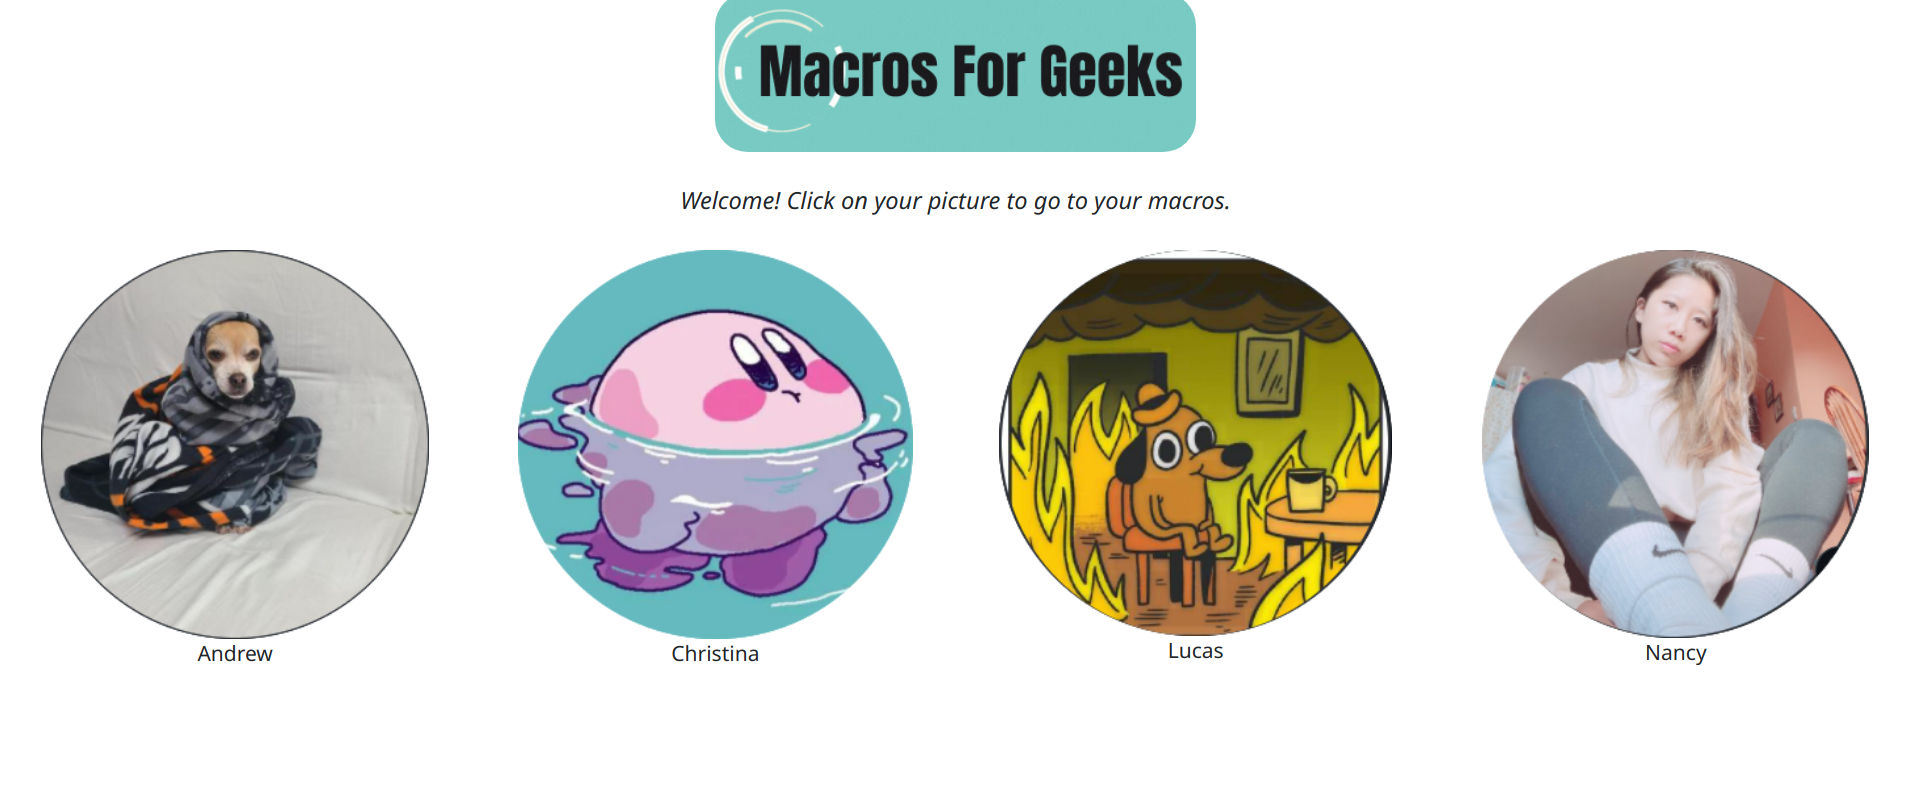
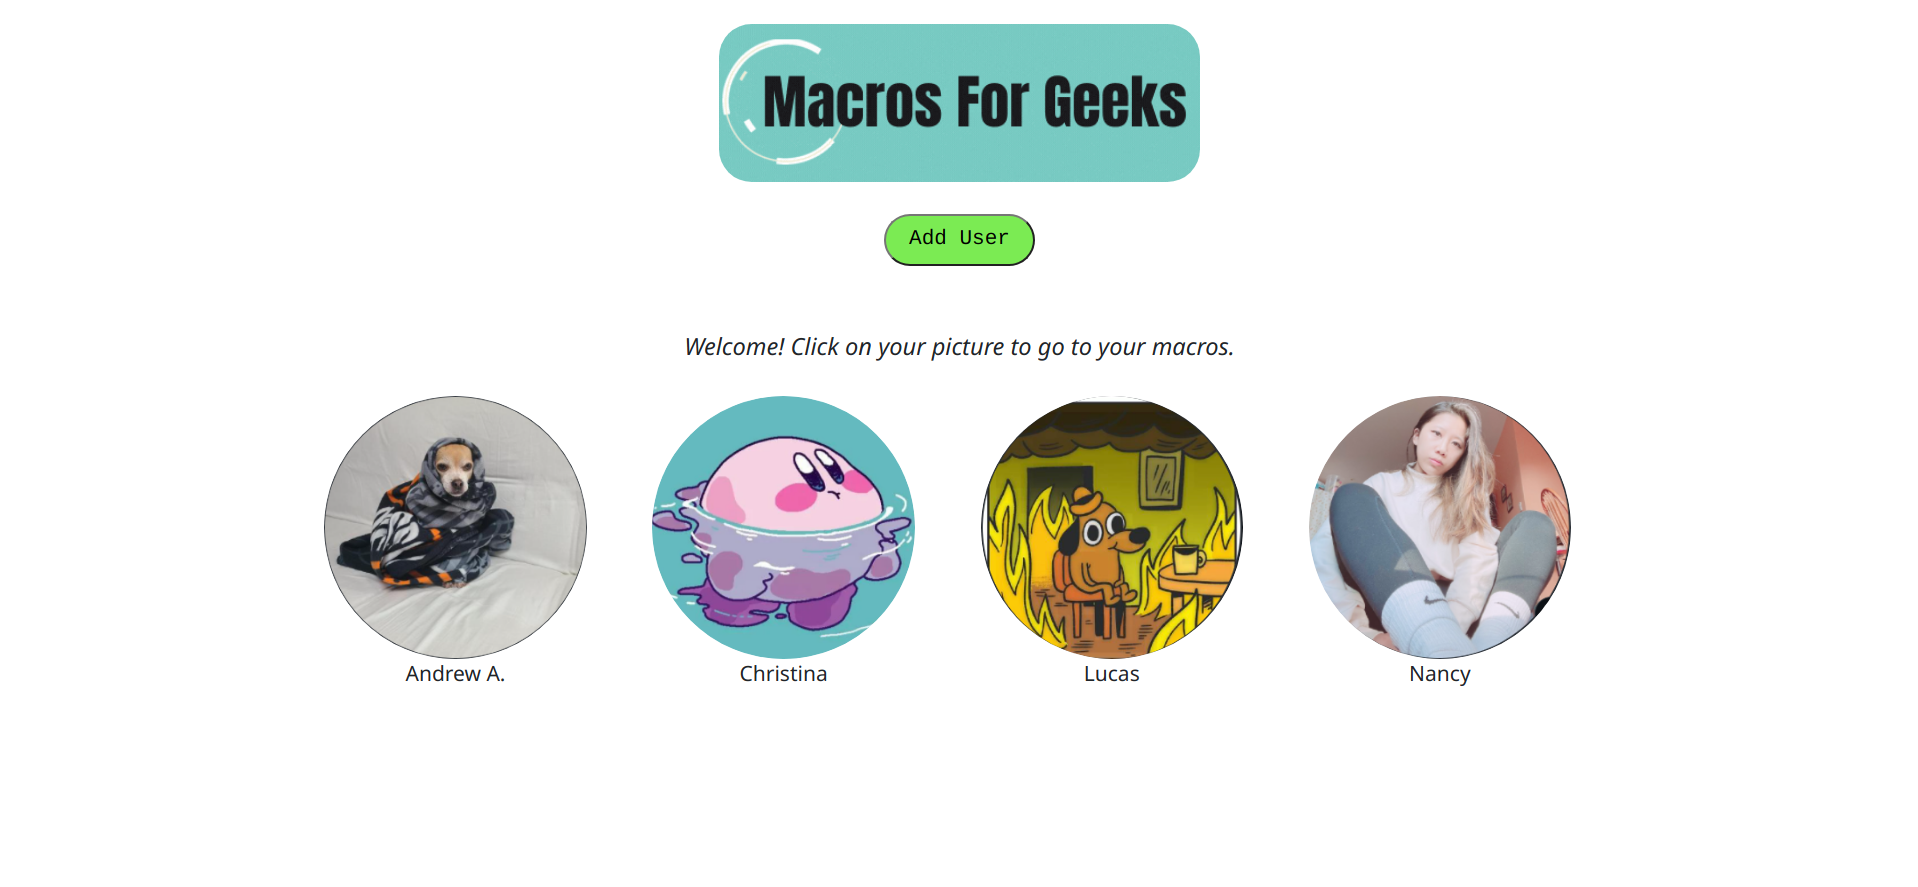
progress chart, UI, and routing
fixed progress chart with setTimeOut to load data automatically after loading from api, fixed ui for register/profile form to have better types along with routing to the login page after deleting user

diff --git a/mfg_website/src/app/progress/progress.component.ts b/mfg_website/src/app/progress/progress.component.ts
@@ -18,52 +18,51 @@ export class ProgressComponent implements OnInit {
   private fats : number[] = [0,0,0,0,0,0,0]
   private carbs: number[] = [0,0,0,0,0,0,0]
   loaded = false;
-  barchart:any;
   carbGoal = [0,0,0,0,0,0,0]
-  protienGoal = [0,0,0,0,0,0,0]
+  proteinGoal = [0,0,0,0,0,0,0]
   fatGoal = [0,0,0,0,0,0,0]
-
-  //@ViewChild(BaseChartDirective) chart: BaseChartDirective;
-
-  public barChartOptions: ChartOptions = {
-    responsive: true,
-    spanGaps:true
-  };
-
-public barChartLabels: any = this.pastWeek;
-public barChartType: ChartType = 'bar';
-
+  // Chart info
+  @ViewChild(BaseChartDirective) chart!: BaseChartDirective;
+  public barChartLabels: any = this.pastWeek;
+  public barChartType: ChartType = 'bar';
   public barChartLegend = true;
   public barChartPlugins = [];
-
   public barChartData: any[] = [
-    { data: this.proteins, label: 'Proteins(g)' , backgroundColor:"#80af5e"},
-    { data: this.fats, label: 'Fats(g)',backgroundColor:"#a6a559"},
-    { data: this.carbs, label: 'Carbohydrates(g)',backgroundColor:"#75DBCD"},
-    { "data": this.protienGoal , "label": "Protein goal(g)", "type": "line", 'fill':'false',backgroundColor:["#80af5e"], borderColor: ['#80af5e'] },
-    { "data": this.carbGoal, "label": "Fat goal(g)", "type": "line", 'fill':'false',backgroundColor:['#a6a559'],borderColor: ['#a6a559'] },
-    { "data": this.fatGoal, "label": "Carb goal(g)", "type": "line", 'fill':'false', backgroundColor:['#75DBCD'],borderColor: ['#75DBCD'] },
+    { data: this.proteins, label: 'Proteins(g)'},
+    { data: this.fats, label: 'Fats(g)'},
+    { data: this.carbs, label: 'Carbohydrates(g)'},
+    { "data": this.proteinGoal , "label": "Protein goal(g)", "type": "line", 'radius':'0', 'fill':'false',backgroundColor:["#80af5e"], borderColor: ['#80af5e'] },
+    { "data": this.carbGoal, "label": "Fat goal(g)", "type": "line", 'radius':'0', 'fill':'false',backgroundColor:['#50978d'],borderColor: ['#50978d'] },
+    { "data": this.fatGoal, "label": "Carb goal(g)", "type": "line", 'radius':'0', 'fill':'false', backgroundColor:['#a6a559'],borderColor: ['#a6a559'] },
   ];
+  chartColors: Colors[] = [
+    {backgroundColor:["#80af5e","#80af5e","#80af5e","#80af5e","#80af5e","#80af5e","#80af5e"]},
+    {backgroundColor:["#50978d","#50978d","#50978d","#50978d","#50978d","#50978d","#50978d"]},
+    {backgroundColor:["#a6a559","#a6a559","#a6a559","#a6a559","#a6a559","#a6a559","#a6a559"]}
 
+  ];
+/*  public barChartOptions: ChartOptions = {
+    responsive: true,
+    spanGaps:true
+  };*/
 
-/*  chartColors: Colors[] = [
-   /!* {backgroundColor:["#80af5e","#80af5e","#80af5e","#80af5e","#80af5e","#80af5e","#80af5e"]},*!/
-/!*    {backgroundColor:["#75DBCD","#75DBCD","#75DBCD","#75DBCD","#75DBCD","#75DBCD","#75DBCD"]},
-    {backgroundColor:["#a6a559","#a6a559","#a6a559","#a6a559","#a6a559","#a6a559","#a6a559"]}*!/
-  ];*/
-
-  constructor(private http: HttpClient,private datePipe: DatePipe,private sharedService: SharedService) { }
+  constructor(private http: HttpClient,private datePipe: DatePipe,private sharedService: SharedService) {
+  }
 
   ngOnInit(){
-    this.getDates()
     this.getMacros()
+    this.getDates()
     this.getGoals()
+    // used to load chart data from the api so that the chart will refresh with the new data
+    setTimeout(() => {
+      this.chart.chart.update() // This re-renders the canvas element.
+    }, 350);
   }
 
   getGoals(){
     this.sharedService.getUser(this.userId).subscribe(user => {
       for(let i = 0; i < 7; i++) {
-        this.protienGoal[i] = user.proteinGoal
+        this.proteinGoal[i] = user.proteinGoal
       }
       for(let i = 0; i < 7; i++) {
         this.carbGoal[i] = user.carbohydrateGoal
@@ -106,7 +105,8 @@ public barChartType: ChartType = 'bar';
     threedays.setDate(threedays.getDate() - 3);
     var twodays=new Date(myCurrentDate);
     twodays.setDate(twodays.getDate() - 2);
-    //Put Macros for each date over the last 7 days into their own array.
+    /* Put Macros for each date over the last 7 days into their own array with for loops.
+       Can make much simpler once API can get past week of entries. */
     this.sharedService.getDiaryByDate(this.userId,sevdays).subscribe(entries => {
       for (var i = 0; i < entries.length ;i++){
         this.proteins[0] += entries[i].protein}})

diff --git a/mfg_website/src/app/profile/profile.component.html b/mfg_website/src/app/profile/profile.component.html
@@ -1,29 +1,29 @@
 <div class="container" *ngIf="userData">
-  <h3 style="text-decoration: underline; text-align:center">Update Profile</h3><br>
+  <h3 style="text-decoration: underline; text-align:center">Update Profile</h3>
   <label>Enter Name: </label>
   <input class="form-control" type="text" [(ngModel)]="userData.name" style="width: 240px;">
-  <label>Enter email:</label>
+  <label>Enter Email:</label>
   <input class="form-control" type="email" [(ngModel)]="userData.email" style="width: 240px;">
-  <label>Enter picture path: </label>
+  <label>Enter Picture Path: </label>
   <input class="form-control" type="text"  [(ngModel)]="userData.picture" style="width: 240px;">
-  <label>Enter Height (inches):</label>
-  <div class="height">
-    <input class="form-control" type="number" [placeholder]="'feet'" [(ngModel)]="userData.feet" style="width: 100px;float:left;">
-    <input class="form-control" type="number" [placeholder]="'inches'" [(ngModel)]="userData.inches" style="width: 100px;float:left">
+  <label>Enter Height (feet, inches):</label>
+  <div class="heightInput">
+    <input class="form-control" type="number" min="0" max="8" [placeholder]="'feet'" [(ngModel)]="userData.feet" style="width: 100px;float:left;">
+    <input class="form-control" type="number" min="0" max="11" [placeholder]="'inches'" [(ngModel)]="userData.inches" style="width: 100px;float:left">
   </div>
-  <label>Enter weight:</label>
-  <input class="form-control" type="number" [(ngModel)]="userData.weight" style="width: 100px;">
-  <label>Enter age:</label>
-  <input class="form-control" type="number" [(ngModel)]="userData.age" style="width: 100px;">
-  <label>Enter protein goal: </label>
-  <input class="form-control" type="number"  [(ngModel)]="userData.proteinGoal" style="width: 100px;">
-  <label>Enter fat goal: </label>
-  <input class="form-control" type="number" [(ngModel)]="userData.fatGoal" style="width: 100px;">
-  <label>Enter carb goal: </label>
-  <input class="form-control"  (keydown.enter)="updateUser()" type="number" [(ngModel)]="userData.carbohydrateGoal" style="width:100px;"><br>
-    <br/>
+  <label>Enter Weight:</label>
+  <input class="form-control" type="number" min="0" [(ngModel)]="userData.weight" style="width: 100px;">
+  <label>Enter Age:</label>
+  <input class="form-control" type="number" min="0" [(ngModel)]="userData.age" style="width: 100px;">
+  <label>Enter Protein Goal: </label>
+  <input class="form-control" type="number" min="0" [(ngModel)]="userData.proteinGoal" style="width: 100px;">
+  <label>Enter Fat Goal: </label>
+  <input class="form-control" type="number" min="0" [(ngModel)]="userData.fatGoal" style="width: 100px;">
+  <label>Enter Carb Goal: </label>
+  <input class="form-control"  (keydown.enter)="updateUser()" type="number" min="0"z [(ngModel)]="userData.carbohydrateGoal" style="width:100px;"><br>
+
   <div class="buttons">
-    <button  routerLink="/Login" type="submit" (click)="deleteUser()" mdbBtn color="secondary" id='button1'>Delete Profile</button>
-    <button  routerLink="/Home" type="submit" (click)="updateUser()" mdbBtn color="secondary" id='button2'>Update Profile</button>
+    <button type="submit" (click)="deleteUser()" mdbBtn color="secondary" id='button1'>Delete Profile</button>
+    <button  type="submit" (click)="updateUser()" mdbBtn color="secondary" id='button2'>Update Profile</button>
   </div>
   </div>

diff --git a/mfg_website/src/app/register/register.component.html b/mfg_website/src/app/register/register.component.html
@@ -1,6 +1,6 @@
 <br><button TYPE='SUBMIT' class="homeButton" routerLink="/Login">Home</button>
 <div class="container" >
-  <h3 style="text-decoration: underline; text-align:center">Add User</h3><br>
+  <h3 style="text-decoration: underline; text-align:center">Add User</h3>
 
   <label>Enter Name: </label>
   <input class="form-control"  type="text" [placeholder]="'First Last'" [(ngModel)]="user.name" style="width: 240px;">
@@ -10,22 +10,20 @@
   <input class="form-control" type="text" [placeholder]="'https://imgur.com/pic.png'" [(ngModel)]="user.picture" style="width: 240px;">
   <label>Enter Height:</label>
   <div class="height">
-  <input class="form-control" type="number" [placeholder]="'feet'" [(ngModel)]="user.feet" style="width: 100px;float:left;">
-  <input class="form-control" type="number" [placeholder]="'inches'" [(ngModel)]="user.inches" style="width: 100px;float:left">
+  <input class="form-control" type="number" min="0" max="8" [placeholder]="'feet'" [(ngModel)]="user.feet" style="width: 100px;float:left;">
+  <input class="form-control" type="number" min="0" max="11" [placeholder]="'inches'" [(ngModel)]="user.inches" style="width: 100px;float:left">
   </div>
   <label>Enter Weight:</label>
-  <input class="form-control" type="number" [placeholder]="'145'" [(ngModel)]="user.weight" style="width: 100px;">
+  <input class="form-control" type="number" min="0" [placeholder]="'145 lbs'" [(ngModel)]="user.weight" style="width: 100px;">
   <label>Enter Age:</label>
-  <input class="form-control" type="number" [placeholder]="'25'" [(ngModel)]="user.age" style="width: 100px;">
+  <input class="form-control" type="number" min="0" [placeholder]="'25'" [(ngModel)]="user.age" style="width: 100px;">
   <label>Enter Protein goal: </label>
-  <input class="form-control" type="number" [placeholder]="'220g'"  [(ngModel)]="user.proteinGoal" style="width: 100px;">
+  <input class="form-control" type="number" min="0" [placeholder]="'220g'"  [(ngModel)]="user.proteinGoal" style="width: 100px;">
   <label>Enter Fat goal: </label>
-  <input class="form-control" type="number" [placeholder]="'320g'" [(ngModel)]="user.fatGoal" style="width: 100px;">
+  <input class="form-control" type="number" min="0" [placeholder]="'320g'" [(ngModel)]="user.fatGoal" style="width: 100px;">
   <label>Enter Carb goal: </label>
-  <input class="form-control" (keydown.enter)="postUser()" [placeholder]="'50g'" type="number" [(ngModel)]="user.carbohydrateGoal" style="width:100px;"><br>
-
-
-  <div style="text-decoration: underline; text-align:right"> Refresh the homescreen and login to your new account.
-  <button type="submit" (click)="postUser()" mdbBtn color="secondary" >Add User</button> <br><br>
+  <input class="form-control" (keydown.enter)="postUser()" [placeholder]="'50g'" type="number" min="0" [(ngModel)]="user.carbohydrateGoal" style="width:100px;">
+  <div style="text-decoration: underline; text-align:right">
+  <button type="submit" (click)="postUser()" mdbBtn color="secondary" >Add User</button>
   </div>
 </div>

diff --git a/mfg_website/src/app/profile/profile.component.ts b/mfg_website/src/app/profile/profile.component.ts
@@ -2,6 +2,7 @@ import { Component, OnInit } from '@angular/core';
 import {User} from "../user/user";
 import {SharedService} from "../services/shared.service";
 import Swal from "sweetalert2";
+import { Router } from '@angular/router';
 
 @Component({
   selector: 'app-profile',
@@ -12,7 +13,7 @@ export class ProfileComponent implements OnInit {
   userData: User = new User()
 
 
-  constructor(private sharedService: SharedService) { }
+  constructor(private router: Router, private sharedService: SharedService) { }
 
   ngOnInit(): void {
     this.sharedService.getUser(this.userId).subscribe(user => {
@@ -27,13 +28,35 @@ export class ProfileComponent implements OnInit {
       error => Swal.fire('Oops..','Your did not update your profile!', 'error')
     )}
 
-  deleteUser(){
-    this.sharedService.deleteUser(this.userId).subscribe(
-      response => Swal.fire("Good job!", "You updated your profile!", "success"),
-      error => Swal.fire('Oops..','Your did not update your profile!', 'error')
-    )}
+  deleteUser() {
+    Swal.fire({
+      title: 'Do you want to delete this user?',
+      showDenyButton: true,
+      showCancelButton: true,
+      confirmButtonText: 'Yes',
+      denyButtonText: `Don't delete`,
+    }).then((result) => {
+      /* Read more about isConfirmed, isDenied below */
+      if (result.isConfirmed) {
+        this.sharedService.deleteUser(this.userId).subscribe(
+          res => {
+            Swal.fire('Deleted!', '', 'success')
+            this.router.navigateByUrl('/Login')
+          },
+
+        error => Swal.fire('Changes are not made', '', 'error')
+        )
+      } else if (result.isDenied) {
+        Swal.fire('Changes are not made', '', 'info')
+      }
+    })
+
+  }
 
   get userId(){
     return this.sharedService.userId
   }
+
+
 }
+

diff --git a/mfg_website/src/app/progress/progress.component.html b/mfg_website/src/app/progress/progress.component.html
@@ -1,12 +1,19 @@
 <br>
-<div style="display: block;" *ngIf="loaded">
-  <canvas baseChart height="105px" *ngIf="loaded"
+
+<div *ngIf="!this.loaded" class="d-flex justify-content-center">
+  <div class="spinner-border" role="status">
+    <span class="sr-only" id="loading"></span>
+  </div>
+</div>
+
+<div style="display: block;" >
+  <canvas baseChart height="105px" *ngIf="this.loaded"
           [datasets]="barChartData"
           [labels]="barChartLabels"
           [plugins]="barChartPlugins"
           [legend]="barChartLegend"
           [chartType]="barChartType"
-          [options]="barChartOptions"
+          [colors]="chartColors"
   >
   </canvas>
 </div>

diff --git a/mfg_website/src/app/donut-chart/donut-chart.component.ts b/mfg_website/src/app/donut-chart/donut-chart.component.ts
@@ -16,7 +16,7 @@ export class DonutChartComponent implements OnInit {
 
   // Doughnut
 
-  public doughnutChartLabels: Label[] = ['Protein', 'Fat', 'Carbohydrate'];
+  public doughnutChartLabels: Label[] = ['Protein(g)', 'Fat(g)', 'Carbohydrate(g)'];
   public doughnutChartData: SingleOrMultiDataSet /*Array<number[]>*/ = [
     this.macros
   ];
@@ -46,7 +46,7 @@ export class DonutChartComponent implements OnInit {
   };
 
   chartColors: any[] = [{
-    backgroundColor:["#80af5e", "#a6a559", "#75DBCD"]
+    backgroundColor:["#80af5e", "#50978d", "#a6a559"]
   }];
 
   get userId():number {

diff --git a/mfg_website/src/app/register/register.component.ts b/mfg_website/src/app/register/register.component.ts
@@ -21,8 +21,8 @@ export class RegisterComponent implements OnInit {
 
   postUser() {
     this.sharedService.addUser(this.user).subscribe(
-      response => Swal.fire("Good job!", "You registered a new user!", "success"),
-      error => Swal.fire('Oops...','Your did not register a new user!', 'error')
+      res => Swal.fire('User saved!', '', 'success'),
+      error =>Swal.fire('User not saved', '', 'error')
     )
     this.userID(this.user.id)
   }

diff --git a/mfg_website/src/app/login/login.component.html b/mfg_website/src/app/login/login.component.html
@@ -19,7 +19,6 @@
 <div class='all-users'>
     <ul>
         <div *ngFor='let user of users; '>
-            <a>
                 <figure><li>
                     <div class = "pics">
                         <img class = "profile-pic"
@@ -31,7 +30,6 @@
                         <figcaption>{{user.name}}</figcaption>
                     </div>
                 </li></figure>
-            </a>
         </div>
     </ul>
 </div>

diff --git a/mfg_website/src/app/foodinput/foodinput.component.html b/mfg_website/src/app/foodinput/foodinput.component.html
@@ -27,7 +27,7 @@
 
   <!-- Enter meal type-->
   <div class="dropbox-container">
-  <label for="dropbox"><h3>Choose meal type: </h3>
+  <label for="dropbox"><h3>When was your meal? </h3>
   <select (keydown.enter)="PostFoods()"  id = "dropbox" class="dropbox" (change)="update($event)" >
     <option *ngFor="let meal of mealTime" [value]='meal.meal'>
         {{meal.meal}}

diff --git a/mfg_website/src/app/profile/profile.component.css b/mfg_website/src/app/profile/profile.component.css
@@ -17,10 +17,10 @@ label {
 
 input {
   display: table-cell;
-  margin-bottom: 15px;
+  margin-bottom: 10px;
 }
 
-.height{
+.heightInput{
   overflow: hidden;
   display: block;
 }

diff --git a/mfg_website/src/app/register/register.component.css b/mfg_website/src/app/register/register.component.css
@@ -30,7 +30,7 @@ label {
 
 input {
   display: table-cell;
-  margin-bottom: 15px;
+  margin-bottom: 10px;
 }
 
 .height{

diff --git a/mfg_website/src/app/login/login.component.css b/mfg_website/src/app/login/login.component.css
@@ -43,6 +43,7 @@
 
 .profile-pic:hover{
   opacity: 0.3;
+  cursor: pointer;
 }
 /*
 #loading{
